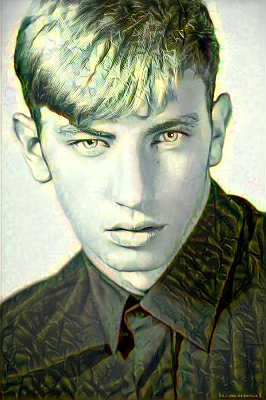
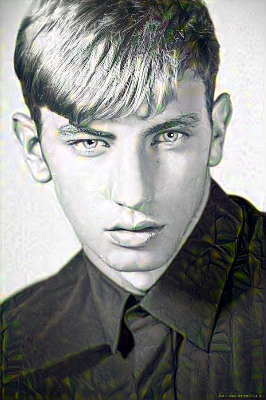
retrieve results

diff --git a/Network.py b/Network.py
@@ -463,8 +463,8 @@ else:
 
 channel_index = 1 if K.image_dim_ordering() == "th" else -1
 
-# feature_layers = ['block1_conv1', 'block2_conv1', 'block3_conv1', 'block4_conv1', 'block5_conv1']
-feature_layers = ['block2_conv1', 'block3_conv1', 'block4_conv1', 'block5_conv1']
+feature_layers = ['block1_conv1', 'block2_conv1', 'block3_conv1', 'block4_conv1', 'block5_conv1']
+# feature_layers = ['block1_conv2', 'block2_conv2', 'block3_conv2', 'block4_conv2', 'block5_conv2']
 
 
 
